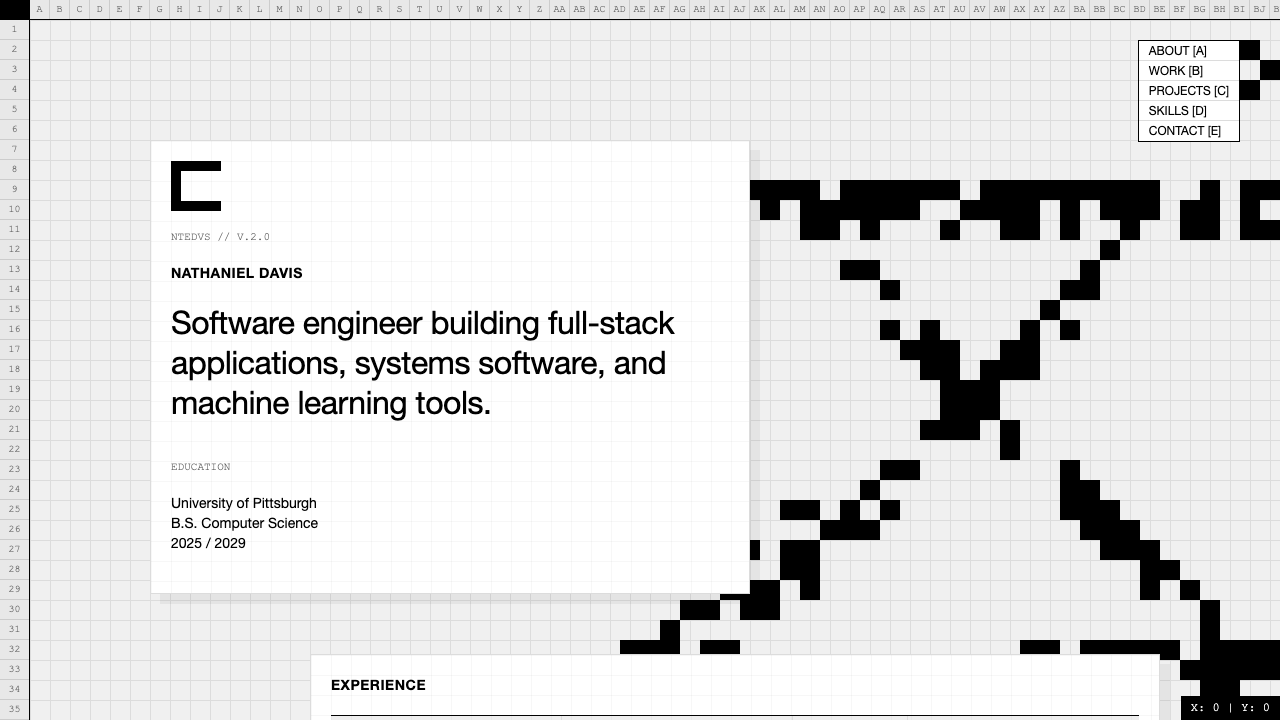
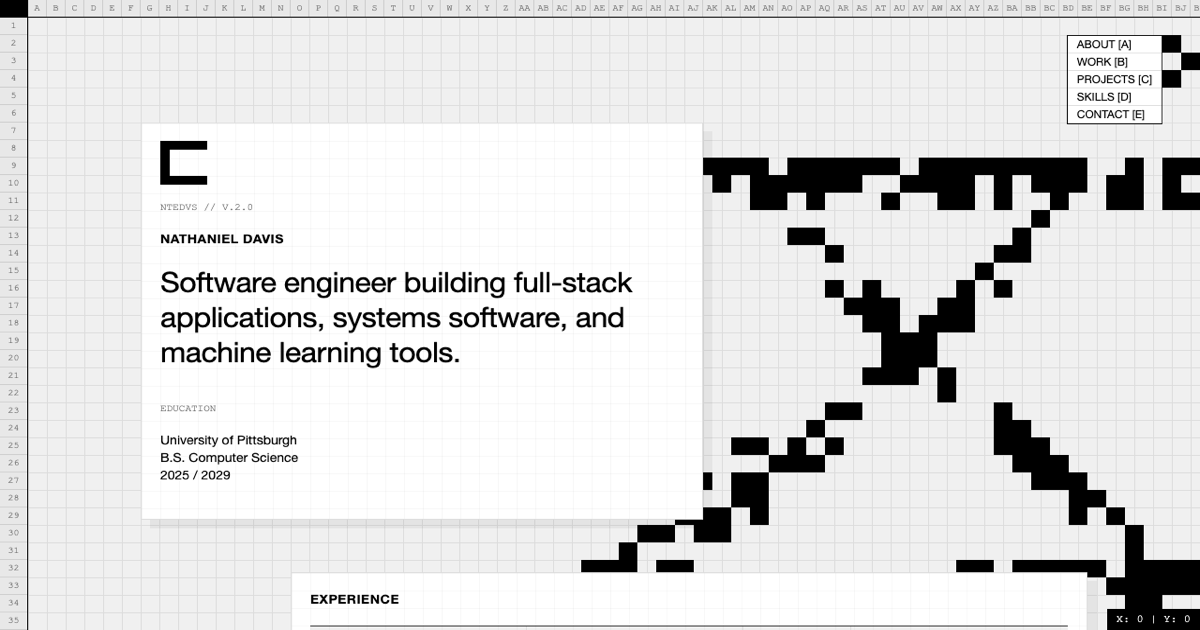
change dim

diff --git a/index.html b/index.html
@@ -24,8 +24,9 @@
     <meta property="og:url" content="https://ntedvs.com" />
     <meta property="og:site_name" content="Nathaniel Davis" />
     <meta property="og:image" content="https://ntedvs.com/og.png" />
-    <meta property="og:image:width" content="1280" />
-    <meta property="og:image:height" content="720" />
+    <meta property="og:image:width" content="1200" />
+    <meta property="og:image:height" content="630" />
+    <meta property="og:image:type" content="image/png" />
 
     <meta name="twitter:card" content="summary_large_image" />
     <meta name="twitter:image" content="https://ntedvs.com/og.png" />
